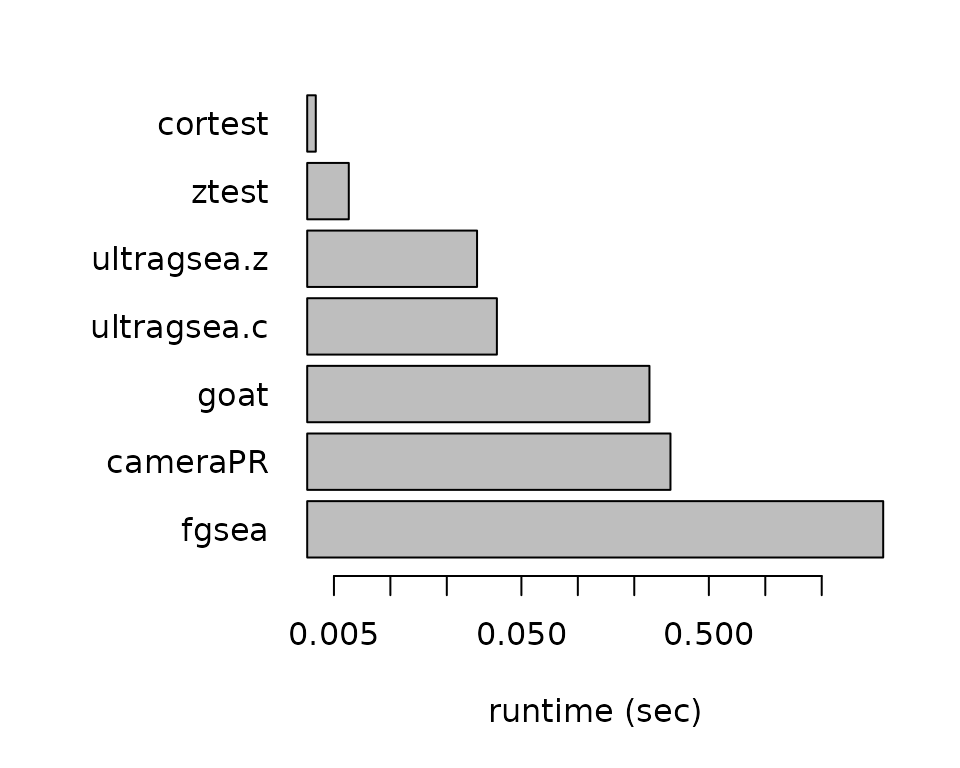
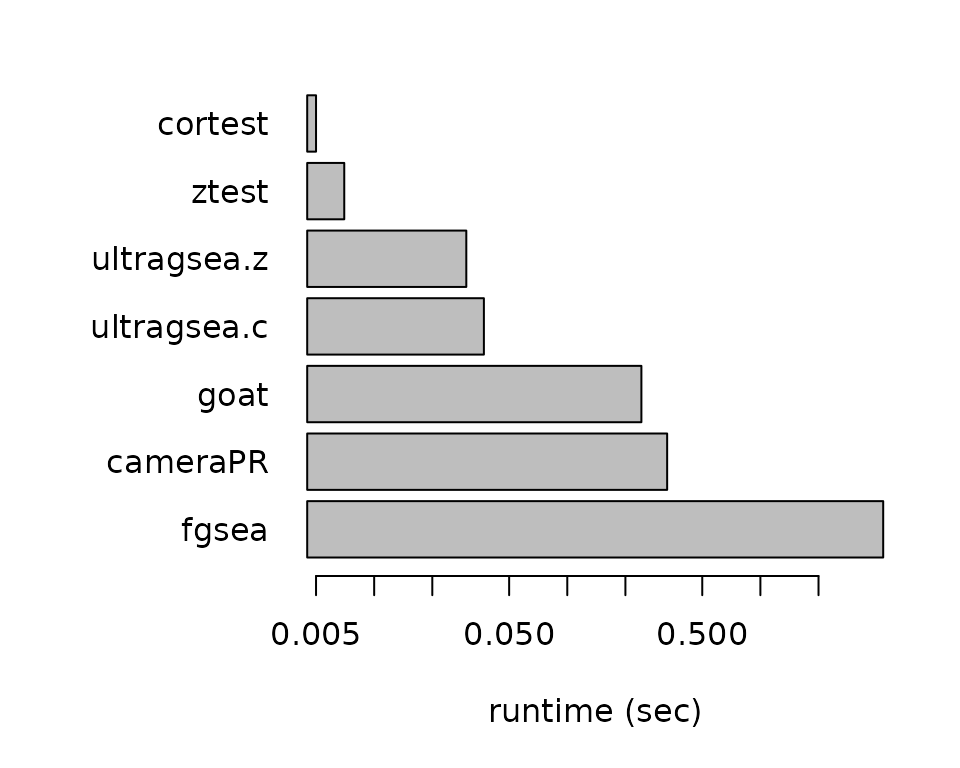
Deploying to gh-pages from @ bigomics/ultragsea@29342363196e3c968622804e12b9f2a5b4e4b357 🚀

diff --git a/articles/compare-methods.html b/articles/compare-methods.html
@@ -170,19 +170,19 @@ of each method.</p>
 <tbody>
 <tr class="odd">
 <td align="left">fgsea</td>
-<td align="right">4.256</td>
+<td align="right">4.325</td>
 <td align="right">4.1</td>
 <td align="right">43.9</td>
 </tr>
 <tr class="even">
 <td align="left">cameraPR</td>
-<td align="right">0.312</td>
+<td align="right">0.329</td>
 <td align="right">0.8</td>
 <td align="right">42.6</td>
 </tr>
 <tr class="odd">
 <td align="left">ultragsea.z</td>
-<td align="right">0.029</td>
+<td align="right">0.030</td>
 <td align="right">0.1</td>
 <td align="right">6.8</td>
 </tr>
@@ -194,19 +194,19 @@ of each method.</p>
 </tr>
 <tr class="odd">
 <td align="left">cortest</td>
-<td align="right">0.004</td>
+<td align="right">0.005</td>
 <td align="right">0.1</td>
 <td align="right">2.8</td>
 </tr>
 <tr class="even">
 <td align="left">ztest</td>
-<td align="right">0.006</td>
+<td align="right">0.007</td>
 <td align="right">0.0</td>
 <td align="right">3.7</td>
 </tr>
 <tr class="odd">
 <td align="left">goat</td>
-<td align="right">0.241</td>
+<td align="right">0.242</td>
 <td align="right">4.4</td>
 <td align="right">23.7</td>
 </tr>
@@ -278,10 +278,10 @@ fgsea::fgsea()</p>
 <div class="sourceCode" id="cb8"><pre class="downlit sourceCode r">
 <code class="sourceCode R"><span><span class="fu"><a href="https://rdrr.io/r/base/system.time.html" class="external-link">system.time</a></span><span class="op">(</span><span class="va">res1</span> <span class="op">&lt;-</span> <span class="fu">fgsea</span><span class="fu">::</span><span class="fu"><a href="https://rdrr.io/pkg/fgsea/man/fgsea.html" class="external-link">fgsea</a></span><span class="op">(</span><span class="va">gmt</span>, <span class="va">fc</span><span class="op">)</span><span class="op">)</span></span>
 <span><span class="co">#&gt;    user  system elapsed </span></span>
-<span><span class="co">#&gt;   5.514   0.089   3.578</span></span>
+<span><span class="co">#&gt;   2.990   0.049   3.604</span></span>
 <span><span class="fu"><a href="https://rdrr.io/r/base/system.time.html" class="external-link">system.time</a></span><span class="op">(</span><span class="va">res2</span> <span class="op">&lt;-</span> <span class="fu">ultragsea</span><span class="fu">::</span><span class="fu"><a href="../reference/fgsea.html">fgsea</a></span><span class="op">(</span><span class="va">gmt</span>, <span class="va">fc</span><span class="op">)</span><span class="op">)</span></span>
 <span><span class="co">#&gt;    user  system elapsed </span></span>
-<span><span class="co">#&gt;   0.220   0.112   0.267</span></span></code></pre></div>
+<span><span class="co">#&gt;   0.221   0.121   0.274</span></span></code></pre></div>
 </div>
 </div>
   </main><aside class="col-md-3"><nav id="toc" aria-label="Table of contents"><h2>On this page</h2>

diff --git a/index.html b/index.html
@@ -75,7 +75,7 @@
 <p>For detailed usage examples and tutorials, please see our vignettes:</p>
 <ul>
 <li><a href="https://bigomics.github.io/ultragsea/articles/ultragsea.html">Getting Started with ultragsea</a></li>
-<li><a href="https://bigomics.github.io/ultragsea/articles/compare-methods.html">Comparing ultragsea with fGSEA</a></li>
+<li><a href="https://bigomics.github.io/ultragsea/articles/compare-methods.html">Comparing ultragsea with other methods</a></li>
 </ul>
 <p>ultragsea is the main gene set scoring algorithm in OmicsPlayground, our Bioinformatics platform at BigOmics Analytics. In OmicsPlayground, you can perform ultragsea without coding needs.</p>
 </div>

diff --git a/articles/compare-methods.md b/articles/compare-methods.md
@@ -101,13 +101,13 @@ kableExtra::kable(tt)
 
 | Function_Call | Elapsed_Time_sec | Total_RAM_Used_MiB | Peak_RAM_Used_MiB |
 |:--------------|-----------------:|-------------------:|------------------:|
-| fgsea         |            4.256 |                4.1 |              43.9 |
-| cameraPR      |            0.312 |                0.8 |              42.6 |
-| ultragsea.z   |            0.029 |                0.1 |               6.8 |
+| fgsea         |            4.325 |                4.1 |              43.9 |
+| cameraPR      |            0.329 |                0.8 |              42.6 |
+| ultragsea.z   |            0.030 |                0.1 |               6.8 |
 | ultragsea.c   |            0.037 |                0.9 |               9.5 |
-| cortest       |            0.004 |                0.1 |               2.8 |
-| ztest         |            0.006 |                0.0 |               3.7 |
-| goat          |            0.241 |                4.4 |              23.7 |
+| cortest       |            0.005 |                0.1 |               2.8 |
+| ztest         |            0.007 |                0.0 |               3.7 |
+| goat          |            0.242 |                4.4 |              23.7 |
 
 ``` r
 rt <- tt[,2]
@@ -184,8 +184,8 @@ ultragsea::fgsea() that is 8-10x faster that the original fgsea::fgsea()
 ``` r
 system.time(res1 <- fgsea::fgsea(gmt, fc))
 #>    user  system elapsed 
-#>   5.514   0.089   3.578
+#>   2.990   0.049   3.604
 system.time(res2 <- ultragsea::fgsea(gmt, fc))
 #>    user  system elapsed 
-#>   0.220   0.112   0.267
+#>   0.221   0.121   0.274
 ```

diff --git a/index.md b/index.md
@@ -27,8 +27,8 @@ For detailed usage examples and tutorials, please see our vignettes:
 
 - [Getting Started with
   ultragsea](https://bigomics.github.io/ultragsea/articles/ultragsea.html)
-- [Comparing ultragsea with
-  fGSEA](https://bigomics.github.io/ultragsea/articles/compare-methods.html)
+- [Comparing ultragsea with other
+  methods](https://bigomics.github.io/ultragsea/articles/compare-methods.html)
 
 ultragsea is the main gene set scoring algorithm in OmicsPlayground, our
 Bioinformatics platform at BigOmics Analytics. In OmicsPlayground, you
